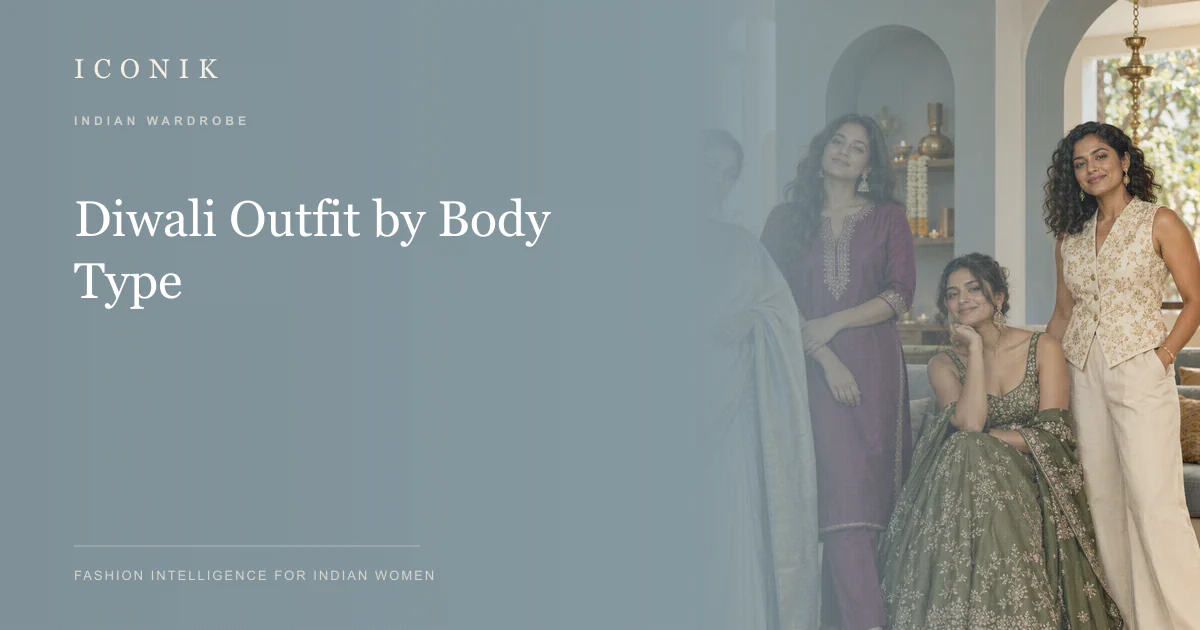
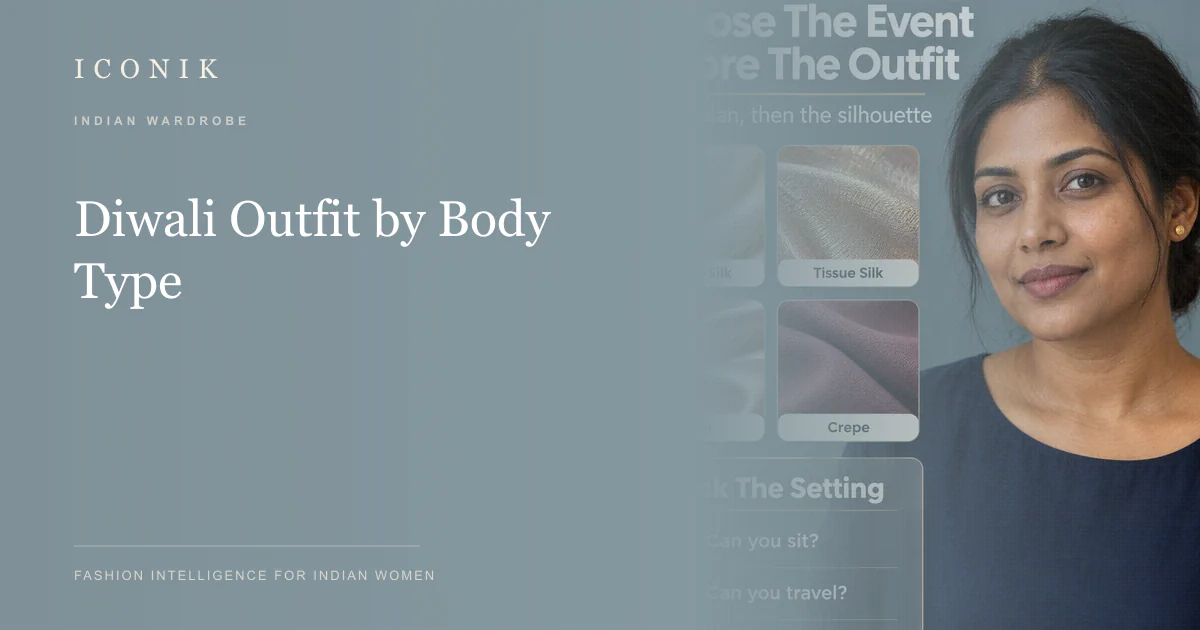
Align Diwali outfits and visuals with curated libraries

Changed region(s): [[0.6475, 0.0, 1.0, 1.0]]

diff --git a/src/app/style-guides/diwali-outfit-body-type/page.tsx b/src/app/style-guides/diwali-outfit-body-type/page.tsx
@@ -83,17 +83,17 @@ export default function DiwaliOutfitBodyTypePage() {
           <table>
             <thead><tr><th>Plan</th><th>Easy starting outfit</th><th>Check before leaving</th></tr></thead>
             <tbody>
-              <tr><td>Home puja</td><td>Saree or kurta set with a secure pallu or dupatta</td><td>Sit on the floor; keep loose hems clear of lamps</td></tr>
-              <tr><td>Visits across town</td><td>Light salwar suit, straight kurta set or soft anarkali</td><td>Walk, climb stairs and sit in a car</td></tr>
-              <tr><td>Evening dinner</td><td>Lehenga, dressy saree, sharara or fusion separates</td><td>Try the full outfit after dinner, including footwear</td></tr>
-              <tr><td>Office party</td><td>Festive jacket, blouse or kurta with tailored trousers</td><td>Match the invitation and your workplace</td></tr>
+              <tr><td>Home puja</td><td>Mustard silk kurta, trousers and tissue dupatta</td><td>Sit on the floor; keep loose hems clear of lamps</td></tr>
+              <tr><td>Visits across town</td><td>Rust block-print kurta and white palazzos</td><td>Walk, climb stairs and sit in a car</td></tr>
+              <tr><td>Evening dinner</td><td>Sea-green kurta and sharara or a pre-draped satin saree</td><td>Try the full outfit after dinner, including footwear</td></tr>
+              <tr><td>Office party</td><td>Red tailored suit or blue waistcoat and cream trousers</td><td>Match the invitation and your workplace</td></tr>
             </tbody>
           </table>
         </div>
         <p>
           If you need one outfit for several stops, begin with a comfortable base and change one
-          element: jewellery, dupatta, jacket or footwear. A neatly finished kurta and trousers
-          can feel relaxed for a home visit and more polished with an embroidered layer for dinner.
+          element: jewellery, dupatta, jacket or footwear. The mustard silk kurta set below uses
+          a tissue dupatta for shine while keeping the base easy to move in.
         </p>
       </section>
 
@@ -117,11 +117,11 @@ export default function DiwaliOutfitBodyTypePage() {
           <p>Where does this outfit widen, narrow, and stop? Then ask whether those points make the complete look feel intentional to you.</p>
         </SeoInsightCard>
         <SeoTeachingVisual
-          src="/images/seo/diwali-outfit-fabric-line-comparison-iconik.webp"
-          alt="Illustration of one Indian woman in two festive kurta sets showing how fabric volume and dupatta direction alter the outfit line."
-          caption="Illustration: changing fabric volume and dupatta direction changes the outline on the same body; neither version is a rule."
-          width={900}
-          height={1350}
+          src="/images/seo/diwali-four-point-fit-check-iconik.webp"
+          alt="Illustrated four-point garment check marking shoulder, waist, hem and movement, with stand, sit, walk and reach tests."
+          caption="Illustration: check shoulder, waist, hem and movement in the complete outfit before relying on a shape label."
+          width={1000}
+          height={1500}
         />
       </section>
 
@@ -140,46 +140,67 @@ export default function DiwaliOutfitBodyTypePage() {
           like that shape. Compare a narrow pallu, a diagonal fall and an open shoulder drape in
           the same mirror and light. For more detail, use the <a href="/style-guides/saree-draping-body-type">saree draping guide</a>.
         </p>
-        <SeoTeachingVisual
-          src="/images/seo/diwali-saree-pallu-directions-iconik.webp"
-          alt="Illustration comparing three pallu directions on the same Indian woman to show how vertical, diagonal and open drapes change visual emphasis."
-          caption="Illustration: compare pallu direction on the same saree before changing fabric or blouse; the line often matters more than the shape label."
-          width={1200}
-          height={800}
-        />
         <h3>Kurta or salwar: shoulder + hem + bottom width</h3>
         <p>
-          A straight kurta with a clean shoulder and side slits is easy to restyle. Try it with
-          straight trousers for one continuous line, or a sharara for movement and greater width
-          below. A shorter kurta exposes more of a wide bottom; a longer hem makes the kurta the
-          main shape. If the dupatta is heavily worked, let it be the focal point and keep the
-          kurta surface calmer. The <a href="/style-guides/salwar-kameez-body-type">salwar kameez guide</a> explores these pairings.
-        </p>
-        <h3>Lehenga or anarkali: waistband + flare + movement</h3>
-        <p>
-          On a lehenga, check the waistband while standing and sitting. A simple skirt with a
-          detailed blouse moves attention upward; a quieter blouse with a patterned skirt moves
-          it lower. For an anarkali, look at where the flare begins and whether the hem clears
-          your shoes. Neither garment belongs to one shape. If you like a full skirt, wear it;
-          adjust the blouse and dupatta until the outfit feels balanced to you.
-        </p>
-        <p>
-          Try two complete outfits before making a decision. For a family visit, pair a rust
-          straight kurta with cream trousers, a light dupatta falling from one shoulder, small
-          earrings and flat juttis. Change the colour to one that suits your wardrobe; the useful
-          part is the controlled line and easy movement. For an evening dinner, try a plain
-          lehenga skirt with a richly worked blouse and a dupatta pinned at one shoulder. This
-          directs the eye toward the face while allowing the skirt to move. If you prefer the
-          skirt as the statement, reverse the embroidery placement. Photograph both versions
-          at the same distance instead of judging them from separate product photographs.
+          The rust block-print straight kurta below uses white palazzos, while the mustard silk
+          kurta uses matching straight trousers and a tissue dupatta. Compare the two outlines:
+          the first gives width below the kurta hem; the second reads as a tonal column. The
+          sea-green kurta and sharara set adds still more movement at the leg. Check how the
+          kurta hem meets each bottom and let the dupatta be the focal point when it carries
+          the most shine. The <a href="/style-guides/salwar-kameez-body-type">salwar kameez guide</a> explores the garment relationships.
         </p>
         <SeoTeachingVisual
-          src="/images/seo/diwali-outfit-formula-flatlay-iconik.webp"
-          alt="Illustrated flat lay of a saree, kurta set and lehenga showing three practical Diwali garment formulas with matching fabrics."
-          caption="Three starting formulas: saree plus fitted blouse, kurta plus trousers and dupatta, or lehenga plus a deliberate blouse contrast."
-          width={1200}
-          height={800}
+          src="/images/seo/diwali-repeat-accent-diagram-iconik.webp"
+          alt="Illustrated ivory kurta set with blue-gold dupatta border repeated in matching juttis, demonstrating one controlled colour accent."
+          caption="Repeat the blue-and-gold dupatta border in the juttis to connect this ivory library look."
+          width={1000}
+          height={1500}
         />
+        <h3>Lehenga or anarkali: waistband + flare + movement</h3>
+        <p>
+          On a lehenga, check the waistband while standing and sitting, and make sure the skirt
+          clears your shoes and any lamps nearby. For an anarkali, look at where the flare begins
+          and whether the hem lets you climb stairs. Neither garment belongs to one shape. If
+          you already own one, take a full-length photograph and assess its shoulder, waist and
+          hem before replacing it.
+        </p>
+        <p>
+          Photograph the options at the same distance rather than judging separate product
+          pictures. The library-backed formulas below show how the top, bottom, layer, shoes
+          and accessories work together. When a library look has no bag or jewellery specified,
+          keep that element unassigned rather than inventing a matching piece.
+        </p>
+      </section>
+
+      <section id="library-looks">
+        <h2>Which complete outfit formulas can you use this Diwali?</h2>
+        <p>
+          These are selected from ICONIK&apos;s curated outfit library. They are starting
+          combinations, subject to the fit, comfort and dress expectations of your event.
+        </p>
+        <SeoTeachingVisual
+          src="/images/seo/diwali-ethnic-outfit-map-iconik.webp"
+          alt="Three labelled flat-lay formulas show rust kurta for visits, mustard silk suit for puja and sea-green sharara for dinner."
+          caption="Three library looks step from a printed visiting outfit to a silk puja set and a tonal dinner sharara."
+          width={1000}
+          height={1500}
+        />
+        <ol>
+          <li><strong>For a relaxed visit:</strong> a rust-and-pink block-print straight kurta over white palazzos, with no layer, gold flat juttis, a tan mini crossbody and jhumkas. The tassel ties lead the eye to the neckline while the plain bottom lets the print stand out.</li>
+          <li><strong>For a home puja:</strong> an ivory embroidered kurta and ivory straight trousers, with a blue-and-gold bordered dupatta over one shoulder, matching embellished juttis and green glass bangles. The dupatta border repeats in the shoes, so the contrast feels considered.</li>
+          <li><strong>For a dressier family gathering:</strong> a mustard silk straight kurta and matching trousers, a gold tissue dupatta with zari border over one shoulder, gold flat juttis and minimal accessories. The tissue is the single shiny layer; check its fall near lamps.</li>
+          <li><strong>For an evening dinner:</strong> a sea-green embroidered kurta with matching sharara trousers, a net dupatta pinned at one shoulder, cream juttis and a gold choker. The full tonal set keeps the flare deliberate, while the pinned dupatta stays in place.</li>
+          <li><strong>For a party with movement:</strong> a royal-blue embellished sleeveless kurta and matching straight trousers, a blue net dupatta over one shoulder, silver heeled sandals and an embellished potli. The scalloped neckline repeats at the hem; test the heel and dupatta together before leaving.</li>
+          <li><strong>For a saree option:</strong> a blush-pink pre-draped satin saree with a gold sequinned short-sleeve jacket over the blouse, embellished heels and no bag specified. The cropped worked layer adds texture above a fluid drape; check that the pallu stays secure when seated.</li>
+          <li><strong>For a corporate Diwali party:</strong> a nude-blush satin blouse, red tailored blazer and matching wide-leg trousers, nude pumps and no bag specified. The suit reads as one continuous red column; the blouse softens the contrast near the face.</li>
+          <li><strong>For a quieter fusion look:</strong> a blue sleeveless peplum waistcoat worn as the top, cream wide-leg trousers, no layer, blue pointed pumps, a white top-handle bag, gold necklace and sunglasses. Matching the shoes to the top ties the two halves together.</li>
+        </ol>
+        <p>
+          The saree and sharara options offer more drape and movement; the kurta sets are easier
+          to repeat across visits. The western looks suit a party whose dress code welcomes
+          them. None is assigned to one body shape: use the garment checkpoints above to
+          adjust fit and visual balance by preference.
+        </p>
       </section>
 
       <section id="fabric-climate">
@@ -202,6 +223,13 @@ export default function DiwaliOutfitBodyTypePage() {
           stand easily. For travel, test the outfit in a chair and with your bag. Beadwork and net
           can catch on jewellery or seating; run a hand over the surface and inspect the lining.
         </p>
+        <SeoTeachingVisual
+          src="/images/seo/diwali-fabric-fall-teaching-card-iconik.webp"
+          alt="Illustrated fabric card compares cotton silk, organza, crepe and tissue, prompting a waist-and-shoulder drape check."
+          caption="Illustration: hold fabric at waist and shoulder to see whether it stands away, falls close and feels comfortable."
+          width={1000}
+          height={1500}
+        />
       </section>
 
       <section id="colour-and-fusion">
@@ -213,19 +241,19 @@ export default function DiwaliOutfitBodyTypePage() {
           Our <a href="/colour-analysis/how-to-find-undertone">undertone guide</a> shows how to compare fabric drapes at home.
         </p>
         <p>
-          A western or fusion outfit can be festive without trying to imitate a lehenga: pair a
-          tailored waistcoat with wide-leg trousers and gold earrings, or a satin skirt with a
-          blouse and a soft Indian dupatta. Keep one focal point. If the jacket is embroidered,
-          choose simpler jewellery; if the clothing is plain, bring attention to the face with
-          earrings or a necklace. Follow your host&apos;s dress expectations when a puja is part of
-          the event.
+          The library&apos;s red trouser suit uses a nude-blush blouse beneath a tailored blazer;
+          its matching wide-leg trousers carry the red line down to the nude pumps. Another library
+          look buttons a blue peplum waistcoat as the top, pairs it with cream wide-leg trousers,
+          and repeats the blue in pointed pumps. These are options for a party or office event
+          whose dress code welcomes western wear. Follow your host&apos;s expectations when a
+          puja is part of the event.
         </p>
         <SeoTeachingVisual
-          src="/images/seo/diwali-outfit-shape-options-iconik.webp"
-          alt="Illustration of four Indian women in lehenga, anarkali, kurta set and festive tailoring showing varied proportions and styling preferences."
-          caption="Illustration: festive dressing can use Indian wear or tailored separates across a wide range of skin depths and body proportions."
-          width={1200}
-          height={800}
+          src="/images/seo/diwali-party-outfit-map-iconik.webp"
+          alt="Three labelled flat lays show a red trouser suit, blue waistcoat outfit and blush pre-draped saree for parties."
+          caption="Three library looks offer distinct party directions: a tailored red column, matched blue accents or a worked jacket over satin drape."
+          width={1000}
+          height={1500}
         />
       </section>
 

diff --git a/src/components/seo/RegisteredSeoArticle.tsx b/src/components/seo/RegisteredSeoArticle.tsx
@@ -83,7 +83,7 @@ function ComposedFallbackVisual({ article, src }: { article: SeoArticleRecord; s
         className="mx-auto h-auto w-full max-w-5xl rounded-[2rem] shadow-[0_28px_80px_rgba(38,52,58,0.24)]"
       />
       <figcaption className="mx-auto mt-3 max-w-5xl px-2 text-xs leading-relaxed text-[#2C2622]/50">
-        AI-generated editorial visual informed by Iconik&apos;s styling methodology. No real client or celebrity is depicted.
+        {article.visual.disclosure ?? "AI-generated editorial illustration. No real client or celebrity is depicted."}
       </figcaption>
     </figure>
   );
@@ -145,11 +145,19 @@ export default function RegisteredSeoArticle({
           <>
             <InstagramReelsForArticle articlePath={article.path} />
             <SeoFaqSection faqs={faqs} />
-            <SeoAuthorReview reviewed={Boolean(article.reviewer)}>
-              {article.reviewer
-                ? "Iconik guidance combines proportion, colour relationships, garment construction, and the practical realities of Indian wardrobes. Recommendations are reviewed before publication and updated when the underlying guidance changes."
-                : "Stylist review pending. This guide is attributed to Jasmine Rana, Co-Founder and Head Stylist; a reviewer credit will be added after approval."}
-            </SeoAuthorReview>
+            {article.reviewer ? (
+              <SeoAuthorReview>
+                Iconik guidance combines proportion, colour relationships, garment construction, and the practical realities of Indian wardrobes. Recommendations are reviewed before publication and updated when the underlying guidance changes.
+              </SeoAuthorReview>
+            ) : (
+              <aside className="seo-author-review">
+                <div>
+                  <p className="seo-eyebrow">Editorial status</p>
+                  <h2>Pending stylist review</h2>
+                  <p className="seo-author-role">ICONIK editorial team</p>
+                </div>
+              </aside>
+            )}
             <SeoRelatedGuides links={article.related} />
             {beforeFooter}
             <SeoBlueprintCta {...cta} />

diff --git a/src/lib/seoArticleRegistry.ts b/src/lib/seoArticleRegistry.ts
@@ -66,7 +66,7 @@ const records = {
     description:
       "Choose a Diwali outfit by body type with practical saree, kurta, lehenga and fusion formulas, plus fabric, fit and occasion checks for Indian celebrations.",
     heroSummary:
-      "A Diwali outfit should work for the celebration you are attending and the proportions you enjoy creating. Use garment lines, fabric and fit to make a considered choice.",
+      "A Diwali outfit by body type should work for the celebration you are attending and the proportions you enjoy creating. Use garment lines, fabric and fit to make a considered choice.",
     keywords: [
       "Diwali outfit by body type",
       "Diwali outfits for Indian women",
@@ -86,6 +86,7 @@ const records = {
       { href: "#choose-occasion", label: "Choose the celebration" },
       { href: "#shape-choice", label: "Use shape as a guide" },
       { href: "#garment-formulas", label: "Try garment formulas" },
+      { href: "#library-looks", label: "Choose complete outfits" },
       { href: "#fabric-climate", label: "Choose fabric for climate" },
       { href: "#colour-and-fusion", label: "Add colour and fusion" },
       { href: "#shop-and-check", label: "Shop and check the fit" },
@@ -100,11 +101,11 @@ const records = {
       src: "/seo/style-guides/diwali-outfit-body-type.webp",
       ogSrc: "/seo/style-guides/diwali-outfit-body-type-og.webp",
       isComposed: true,
-      alt: "Illustration of four Indian women wearing a saree, kurta set, lehenga and festive tailoring for different Diwali settings.",
+      alt: "Illustrated card compares four festive fabrics and asks whether an outfit suits sitting, travel and a secure hem.",
       width: 1600,
       height: 2000,
-      title: "One Festival, Many Outfit Lines",
-      disclosure: "Illustration. Fictional people, not ICONIK clients.",
+      title: "Choose the Event Before the Outfit",
+      disclosure: "Illustration: choose fabric and silhouette after checking the event, movement and hem security.",
     },
     growth: {
       contentCluster: "indian_occasion_wear",

diff --git a/src/components/seo/SeoEditorial.tsx b/src/components/seo/SeoEditorial.tsx
@@ -223,20 +223,18 @@ export function SeoAuthorReview({
   name = FOUNDERS[0].name,
   role = FOUNDERS[0].title,
   profileHref = FOUNDERS[0].linkedIn,
-  reviewed = true,
   children,
 }: {
   name?: string;
   role?: string;
   profileHref?: string;
-  reviewed?: boolean;
   children?: ReactNode;
 }) {
   return (
     <aside className="seo-author-review">
       <div aria-hidden="true" className="seo-author-monogram">{name.split(/\s+/).map((part) => part[0]).join("").slice(0, 2)}</div>
       <div>
-        <p className="seo-eyebrow">{reviewed ? "Expert review" : "Article author"}</p>
+        <p className="seo-eyebrow">Expert review</p>
         <h2>{name}</h2>
         <p className="seo-author-role">{role}</p>
         {children && <div className="seo-author-copy">{children}</div>}
